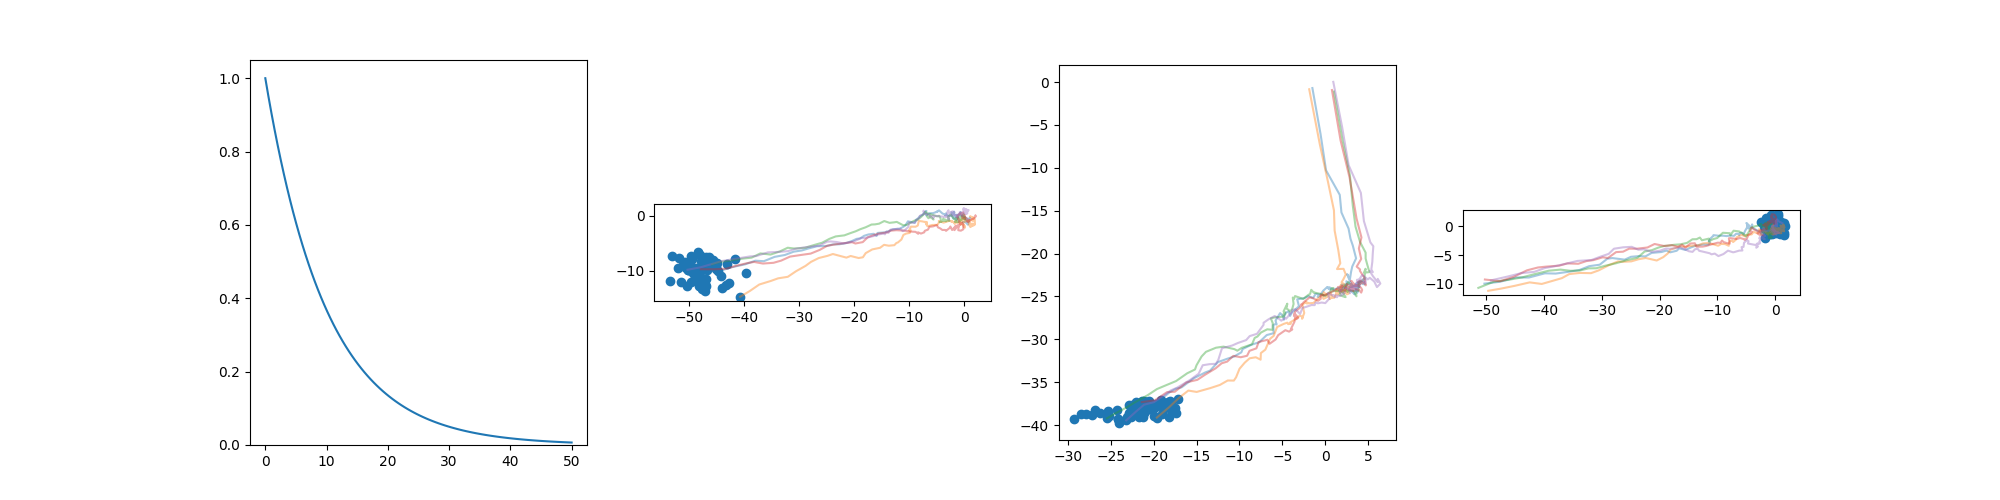
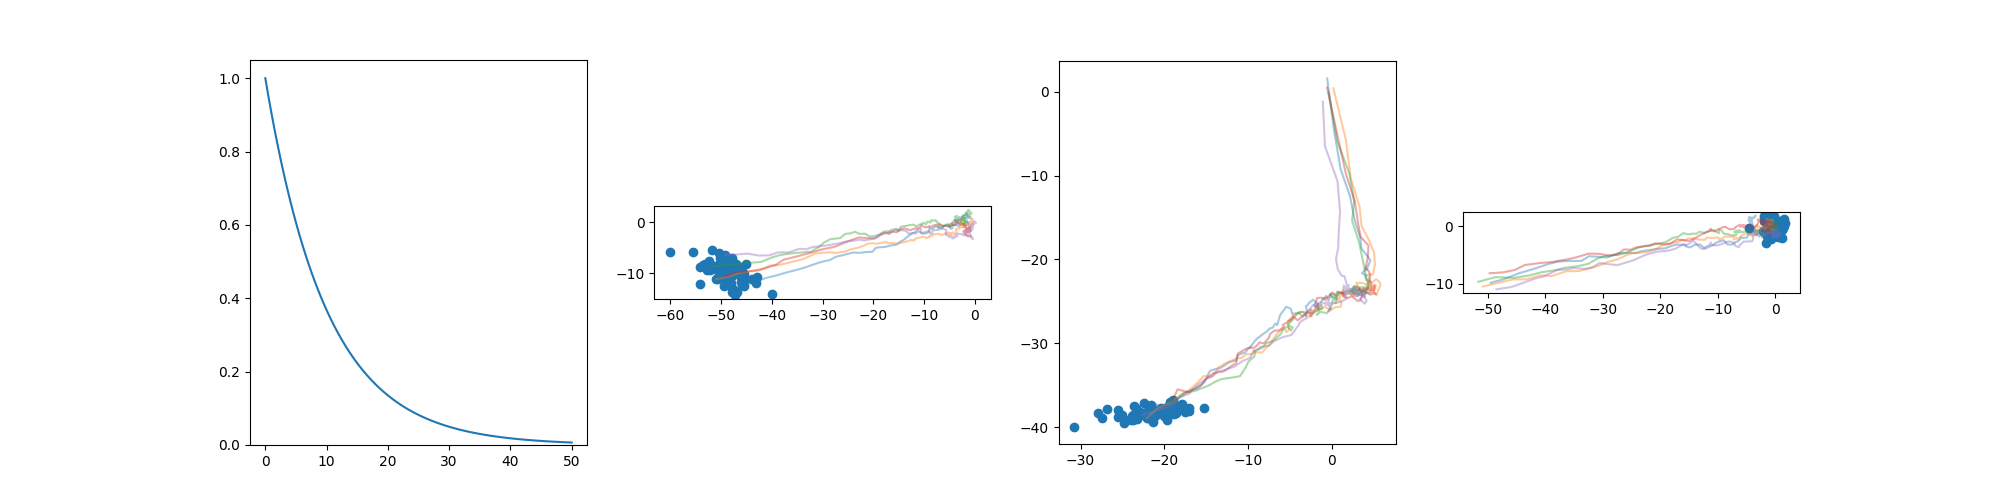
about to remove the stupid shaping stuff

diff --git a/dynamic_observer/model/noise_schedule.py b/dynamic_observer/model/noise_schedule.py
@@ -35,8 +35,9 @@ class ContinuousTimeNoiseSchedule(ABC):
 
     duration: float
 
-    def __init__(self) -> None:
+    def __init__(self, duration: float) -> None:
         super().__init__()
+        self.duration = duration
 
     @abstractmethod
     def beta(self, time: _T) -> _T:
@@ -69,7 +70,7 @@ class ContinuousTimeNoiseSchedule(ABC):
         noising_factor = self.noising_factor(time = time)
         epsilon = torch.randn_like(x0)
         xt = (noising_factor * x0) + ((1.0 - noising_factor.square()).sqrt() * epsilon)
-        conditional_score = - epsilon / (1.0 - noising_factor.square()).sqrt()                 # XXX: Check before training!
+        conditional_score = - epsilon / (1.0 - noising_factor.square())                 # XXX: Check before training!
         return {
             'noising_factor': noising_factor,
             'epsilon': epsilon,
@@ -115,11 +116,20 @@ class ContinuousTimeNoiseSchedule(ABC):
         time = torch.linspace(0, self.duration, num_points)
         return time, self.noising_factor(time=time)
 
+    def random_noise(self, x0: _T, num_timepoints: int) -> Dict[str, _T]:
+        """
+        x0 of shape [..., D] XXX allow structured input
+        output of shape [..., num_timepoints, D]
+        """
+        timepoints = torch.rand(num_timepoints) * self.duration
+        time = timepoints.reshape(*[1]*(len(x0.shape)-1), -1, 1)
+        return self.noise_and_conditional_score(x0=x0, time=time)
+
 
 class ConstantTimeNoiseSchedule(ContinuousTimeNoiseSchedule):
 
     def __init__(self, noise_level: float, duration: float = 10.0) -> None:
-        super().__init__()
+        super().__init__(duration)
         self.noise_level = noise_level
         self.duration = duration
         
@@ -143,11 +153,10 @@ class ConstantTimeNoiseSchedule(ContinuousTimeNoiseSchedule):
 class LinearIncreaseNoiseSchedule(ContinuousTimeNoiseSchedule):
     
     def __init__(self, start_noise_level: float, end_noise_level: float, duration: float = 10.0) -> None:
-        super().__init__()
+        super().__init__(duration)
         self.start_noise_level = start_noise_level    # at time 0
         self.end_noise_level = end_noise_level  # at time 1
         self.slope = end_noise_level - start_noise_level
-        self.duration = duration
 
         smallest_scaling_factor = self.summarise_noising_factor()[1][-1]
         assert smallest_scaling_factor > 0.001, smallest_scaling_factor.item()

diff --git a/dynamic_observer/model/score_approximator.py b/dynamic_observer/model/score_approximator.py
@@ -93,8 +93,8 @@ class FCScoreApproximator(ScoreApproximator):
             time_embedding_hidden_layers = [time_embedding_dim]
         
         self.time_layers = self.generate_fc_sequential(
-            input_size = time_embedding_hidden_layers,
-            output_size = time_embedding_hidden_layers,
+            input_size = time_embedding_dim,
+            output_size = time_embedding_dim,
             hidden_layers = time_embedding_hidden_layers,
             non_linearity = nn.SiLU
         )
@@ -112,8 +112,8 @@ class FCScoreApproximator(ScoreApproximator):
         factor = (
             2
             * torch.arange(
-                start=0, end=self.time_embedding_dim // 2, dtype=torch.float32,
-            )
+                start=0, end=1 + self.time_embedding_dim // 2, dtype=torch.float32,
+            )[1:]
             / self.time_embedding_dim
         )
         self.register_buffer('factor', factor)  # shaped [time_embedding_dim / 2]
@@ -132,9 +132,9 @@ class FCScoreApproximator(ScoreApproximator):
         t comes in any shape [...], returns shape [..., time_embedding_dim]
         """
         t_reshape = t.unsqueeze(-1)
-        factor = self.factor[*[None]*len(t_reshape.shape)]
+        factor = self.factor[*[None]*len(t.shape)]
         times = t_reshape / factor
-        time_embs = torch.cat([torch.sin(times), torch.cos(times)], dim=1)
+        time_embs = torch.cat([torch.sin(times), torch.cos(times)], dim=-1)
         return self.time_layers(time_embs)
 
     def generate_main_input(self, x: _T, input_repr: _T, time_embedding: _T) -> _T:
@@ -147,9 +147,9 @@ class FCScoreApproximator(ScoreApproximator):
 
     def approximate_score(self, x_t: _T, stimuli: Tuple[_T, ...], t: _T, **kwargs):
         """
-        x_t of shape XXX
-        stimuli length 1, of shape XXX
-        t of shape XXX
+        x_t of shape [..., 1, D_sample]
+        stimuli length 1, of shape [..., D_stim]
+        t of shape [1 * len(x_t.shape)]
         """
         assert len(stimuli) == 1, "Cannot have tuple stimuli for FCScoreApproximator yet!"
         import pdb; pdb.set_trace(header = 'make shapes work!')

diff --git a/dynamic_observer/ct_approx_scorematching_test.py b/dynamic_observer/ct_approx_scorematching_test.py
@@ -31,16 +31,16 @@ if __name__ == '__main__':
     batch_size = 64
     num_reverse_dynamics_steps = 100
 
-    target_m0 = torch.tensor([-50.0, -10.0])[None,None].repeat(num_reverse_dynamics_steps, batch_size, 1)
-    target_S0 = torch.tensor([[10.0, -3.0], [-3.0, 4.0]])[None,None].repeat(num_reverse_dynamics_steps, batch_size, 1, 1)
-    vector_stimulus = (target_m0, target_S0)
+    target_m0 = torch.tensor([-50.0, -10.0])[None,None].repeat(num_reverse_dynamics_steps-1, batch_size, 1)
+    target_S0 = torch.tensor([[10.0, -3.0], [-3.0, 4.0]])[None,None].repeat(num_reverse_dynamics_steps-1, batch_size, 1, 1)
+    target_S0_reshaped = target_S0.reshape(*target_S0.shape[:-2], -1)
+    vector_stimulus = (torch.concat([target_m0, target_S0_reshaped], dim = -1), )
 
     base_samples = torch.randn(batch_size, 2)
     all_reverse_trajectories = diffmodel.run_unconditioned_reverse_dynamics(base_samples, vector_stimulus, num_reverse_dynamics_steps).cpu().numpy()
     example_reverse_trajectories = all_reverse_trajectories[:5]
     end_reverse_samples = all_reverse_trajectories[:,-1,:]
 
-    
     observations = 30.0 + torch.zeros(num_reverse_dynamics_steps, batch_size, 1)  # y
     projection_matrix = torch.tensor([[0.1961, -0.9806]])[None,None].repeat(num_reverse_dynamics_steps, batch_size, 1, 1)  # A
     observation_noise_covar = torch.tensor([[1.0, 0.0], [0.0, 1.0]])[None,None].repeat(num_reverse_dynamics_steps, batch_size, 1, 1)
@@ -77,4 +77,4 @@ if __name__ == '__main__':
         axes[3].plot(*example_forward_trajectory.T, alpha = 0.4)
     axes[3].set_aspect(1.0)
     
-    fig.savefig('/homes/pr450/repos/research_projects/sampling_ddpm/dynamic_observer/z_exact_scorematching/schedule.png')
+    fig.savefig('/homes/pr450/repos/research_projects/sampling_ddpm/dynamic_observer/z_approx_scorematching/schedule.png')

diff --git a/dynamic_observer/ct_exact_scorematching_test.py b/dynamic_observer/ct_exact_scorematching_test.py
@@ -23,8 +23,8 @@ if __name__ == '__main__':
     batch_size = 64
     num_reverse_dynamics_steps = 100
 
-    target_m0 = torch.tensor([-50.0, -10.0])[None,None].repeat(num_reverse_dynamics_steps, batch_size, 1)
-    target_S0 = torch.tensor([[10.0, -3.0], [-3.0, 4.0]])[None,None].repeat(num_reverse_dynamics_steps, batch_size, 1, 1)
+    target_m0 = torch.tensor([-50.0, -10.0])[None,None].repeat(num_reverse_dynamics_steps-1, batch_size, 1)
+    target_S0 = torch.tensor([[10.0, -3.0], [-3.0, 4.0]])[None,None].repeat(num_reverse_dynamics_steps-1, batch_size, 1, 1)
     vector_stimulus = (target_m0, target_S0)
 
     base_samples = torch.randn(batch_size, 2)
@@ -32,10 +32,12 @@ if __name__ == '__main__':
     example_reverse_trajectories = all_reverse_trajectories[:5]
     end_reverse_samples = all_reverse_trajectories[:,-1,:]
 
+    import pdb; pdb.set_trace()
+
     
-    observations = 30.0 + torch.zeros(num_reverse_dynamics_steps, batch_size, 1)  # y
-    projection_matrix = torch.tensor([[0.1961, -0.9806]])[None,None].repeat(num_reverse_dynamics_steps, batch_size, 1, 1)  # A
-    observation_noise_covar = torch.tensor([[1.0, 0.0], [0.0, 1.0]])[None,None].repeat(num_reverse_dynamics_steps, batch_size, 1, 1)
+    observations = 30.0 + torch.zeros(num_reverse_dynamics_steps-1, batch_size, 1)  # y
+    projection_matrix = torch.tensor([[0.1961, -0.9806]])[None,None].repeat(num_reverse_dynamics_steps-1, batch_size, 1, 1)  # A
+    observation_noise_covar = torch.tensor([[1.0, 0.0], [0.0, 1.0]])[None,None].repeat(num_reverse_dynamics_steps-1, batch_size, 1, 1)
 
     base_samples = torch.randn(batch_size, 2)
     all_conditioned_reverse_trajectories = diffmodel.run_conditioned_reverse_dynamics(
